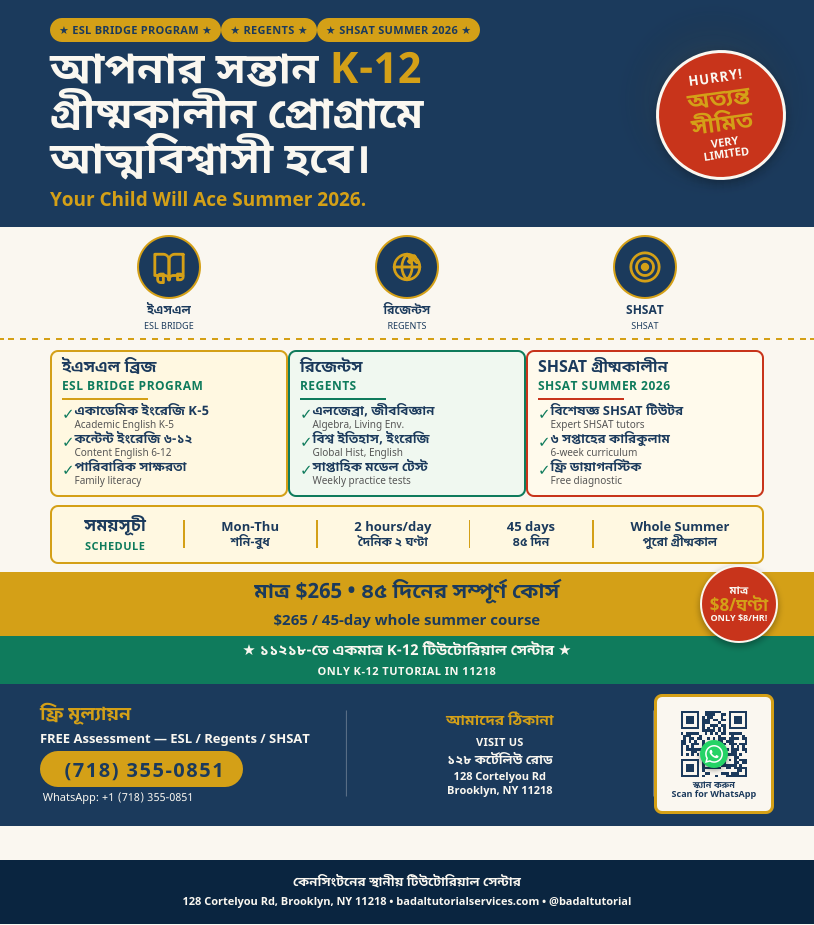
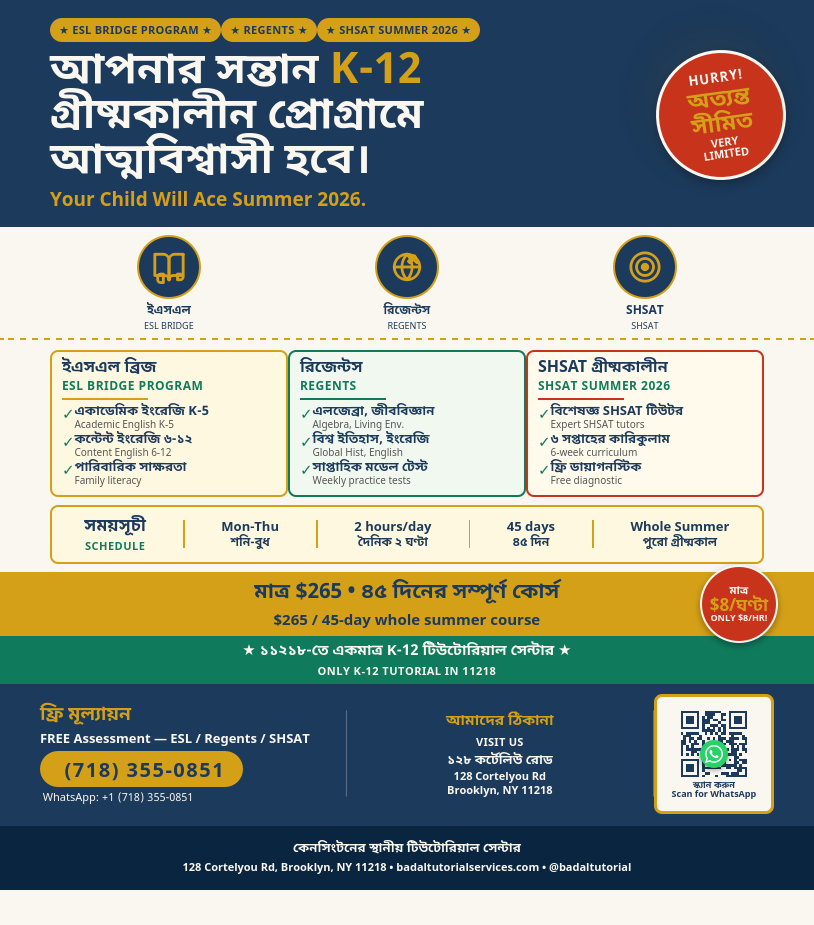
Remove spacer between CTA and footer (closes 34px gap)
The .spacer div with flex:1 was pushing footer 34px below the
CTA block. Removed it — footer now hugs CTA directly (0px gap).

Changed region(s): [[0.0, 0.8778, 1.0, 0.9989]]

diff --git a/flyers/bn/unified-bn.html b/flyers/bn/unified-bn.html
@@ -327,8 +327,6 @@
     </div>
   </div>
 
-  <div class="spacer"></div>
-
   <!-- FOOTER -->
   <div class="footer">
     <div class="footer-bn">কেনসিংটনের স্থানীয় টিউটোরিয়াল সেন্টার</div>
